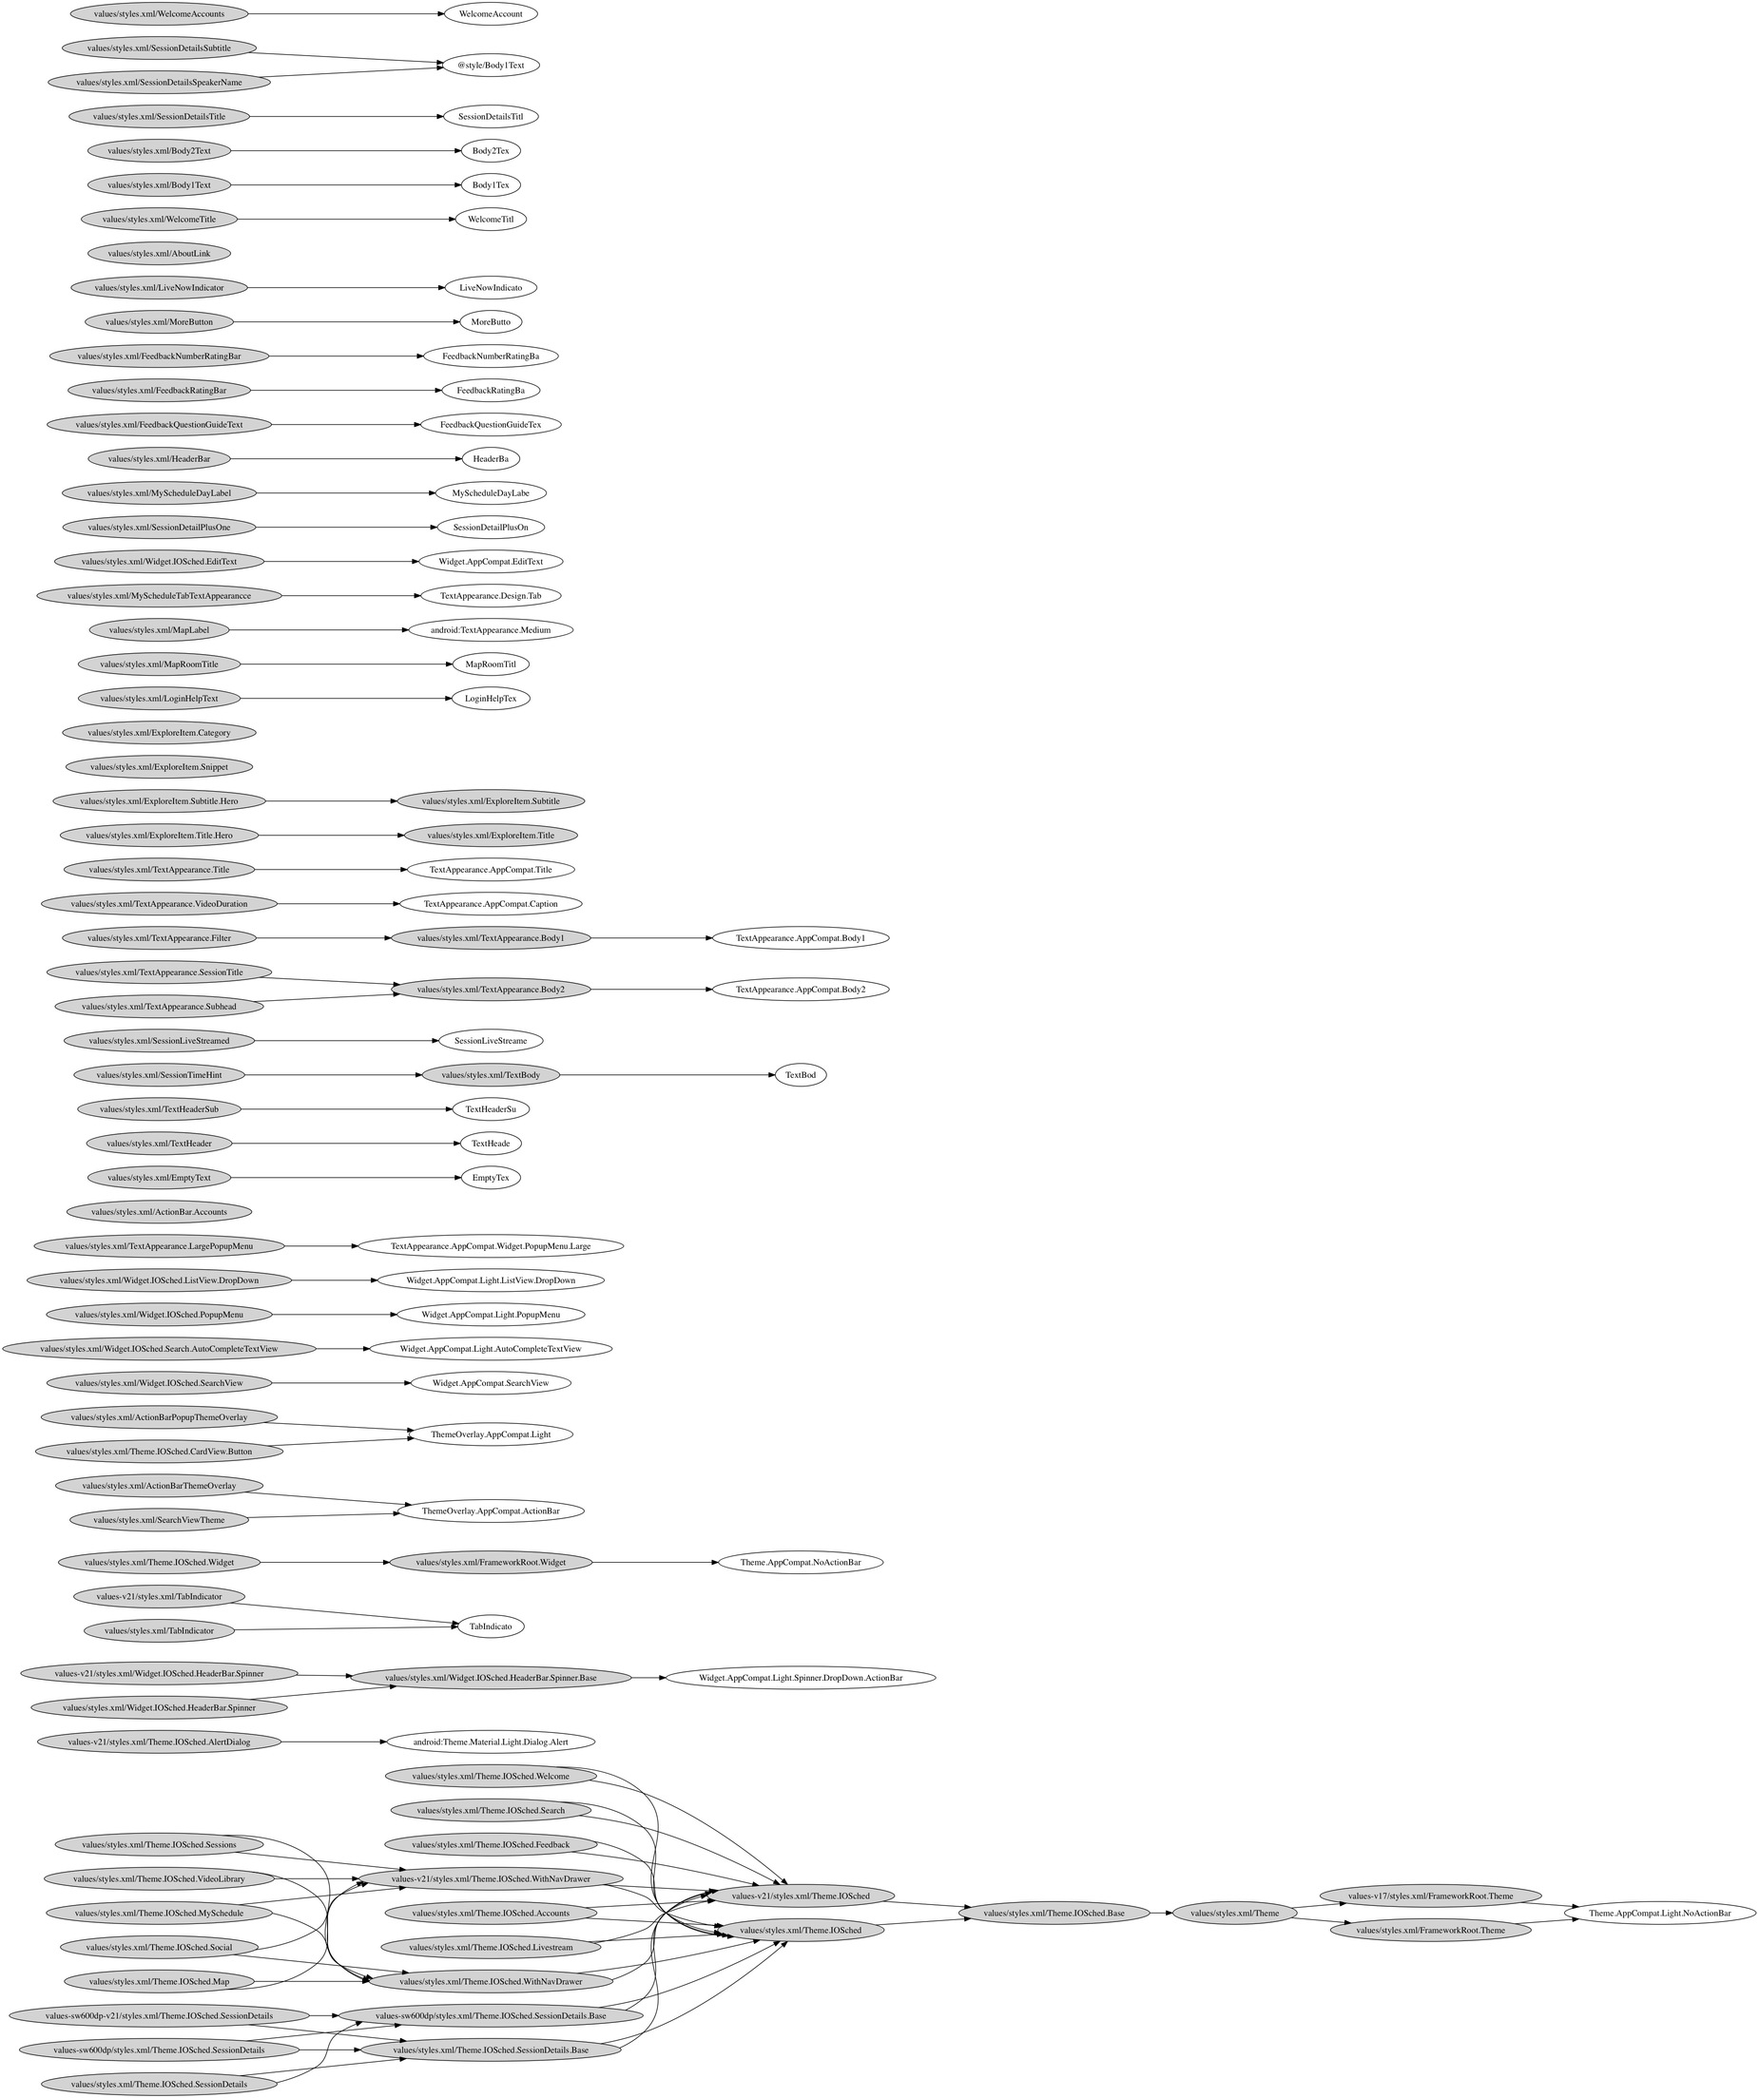
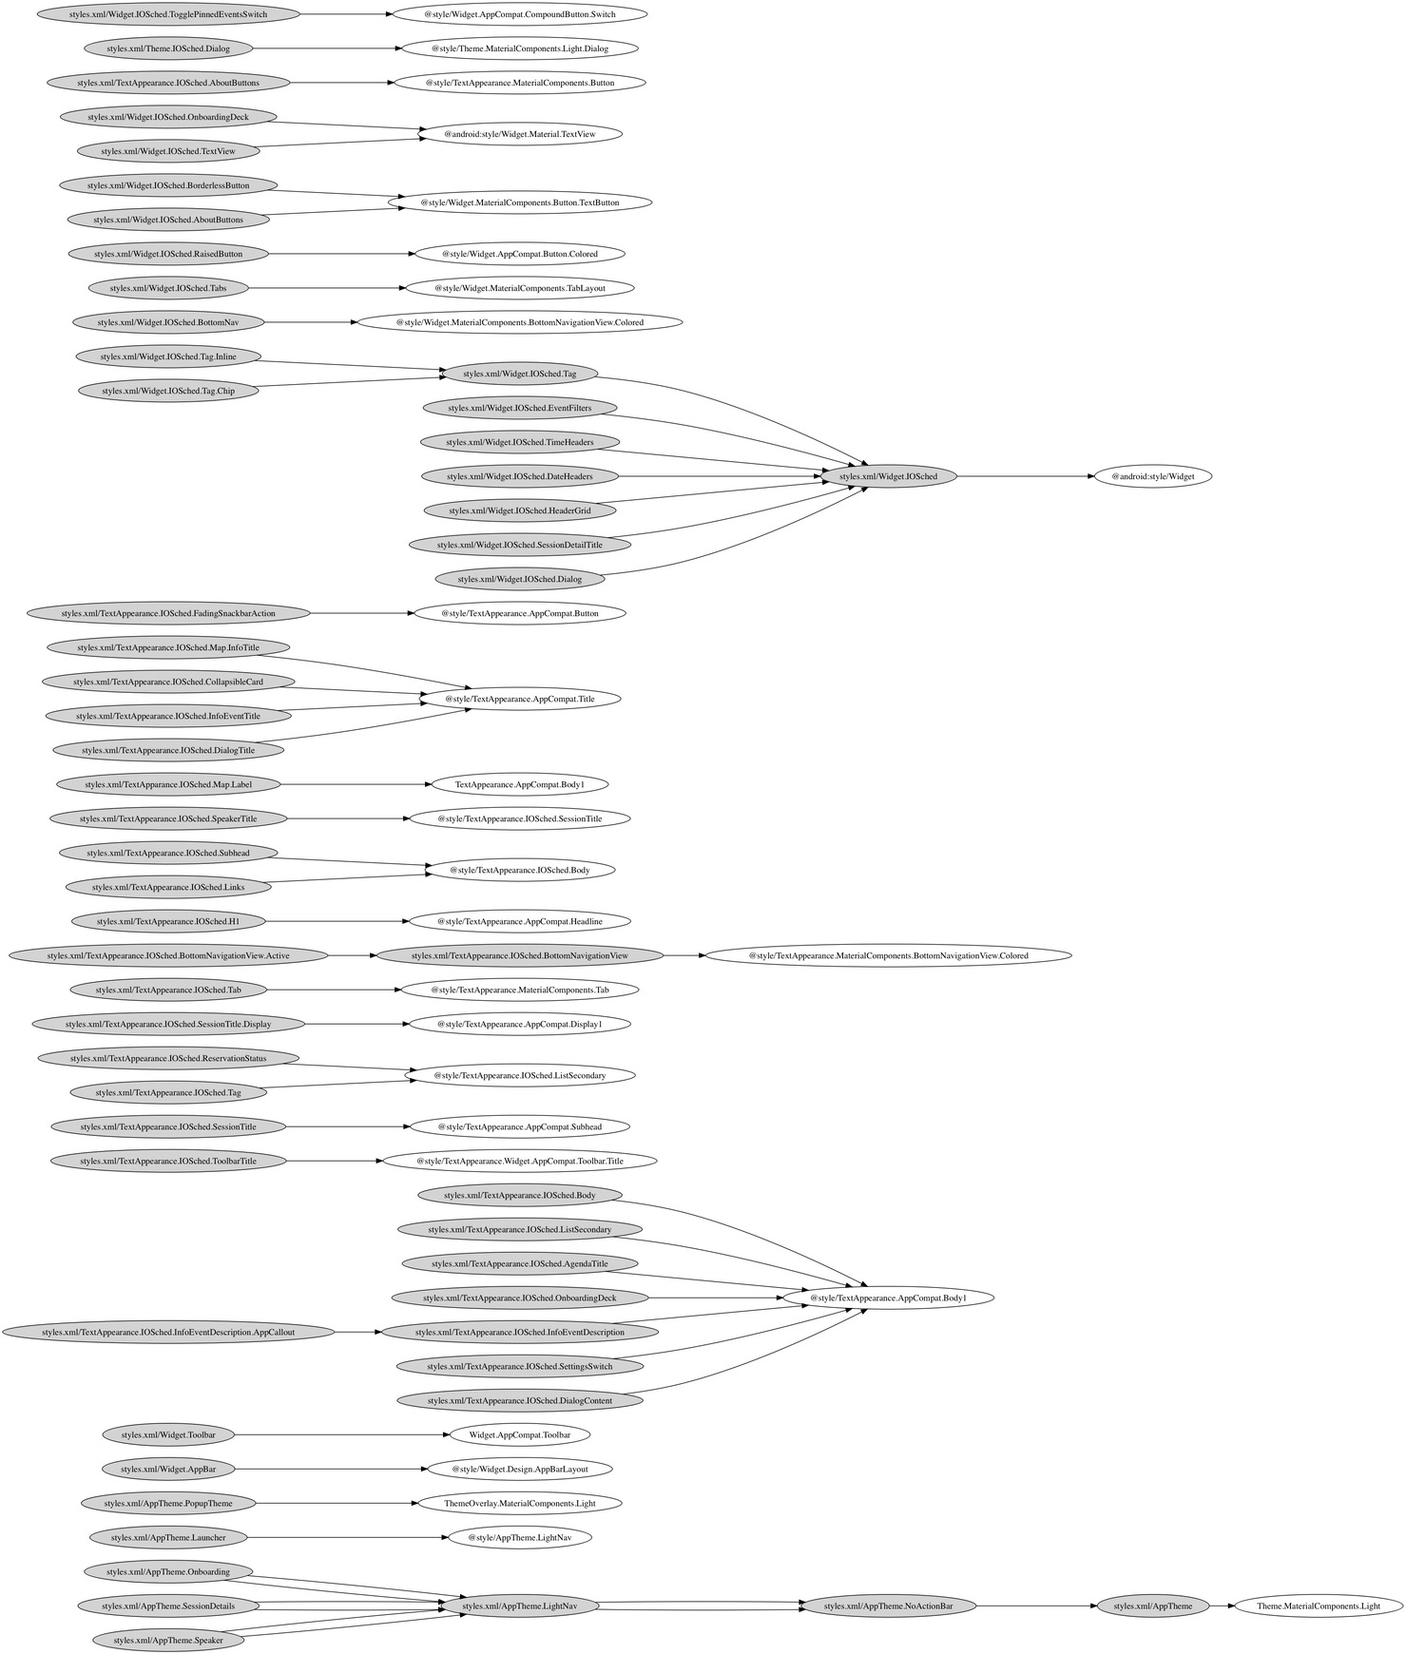
Fixed bug

diff --git a/parse.py b/parse.py
@@ -94,7 +94,7 @@ for dirname, dirnames, filenames in os.walk(directory):
         text = open(fullPath).read()
 
         if withFullPath:
-            style = Style(os.path.basename(fullPath))
+            style = Style(fullPath)
         else:
             style = Style(os.path.basename(dirname) + "/" + filename)
 
